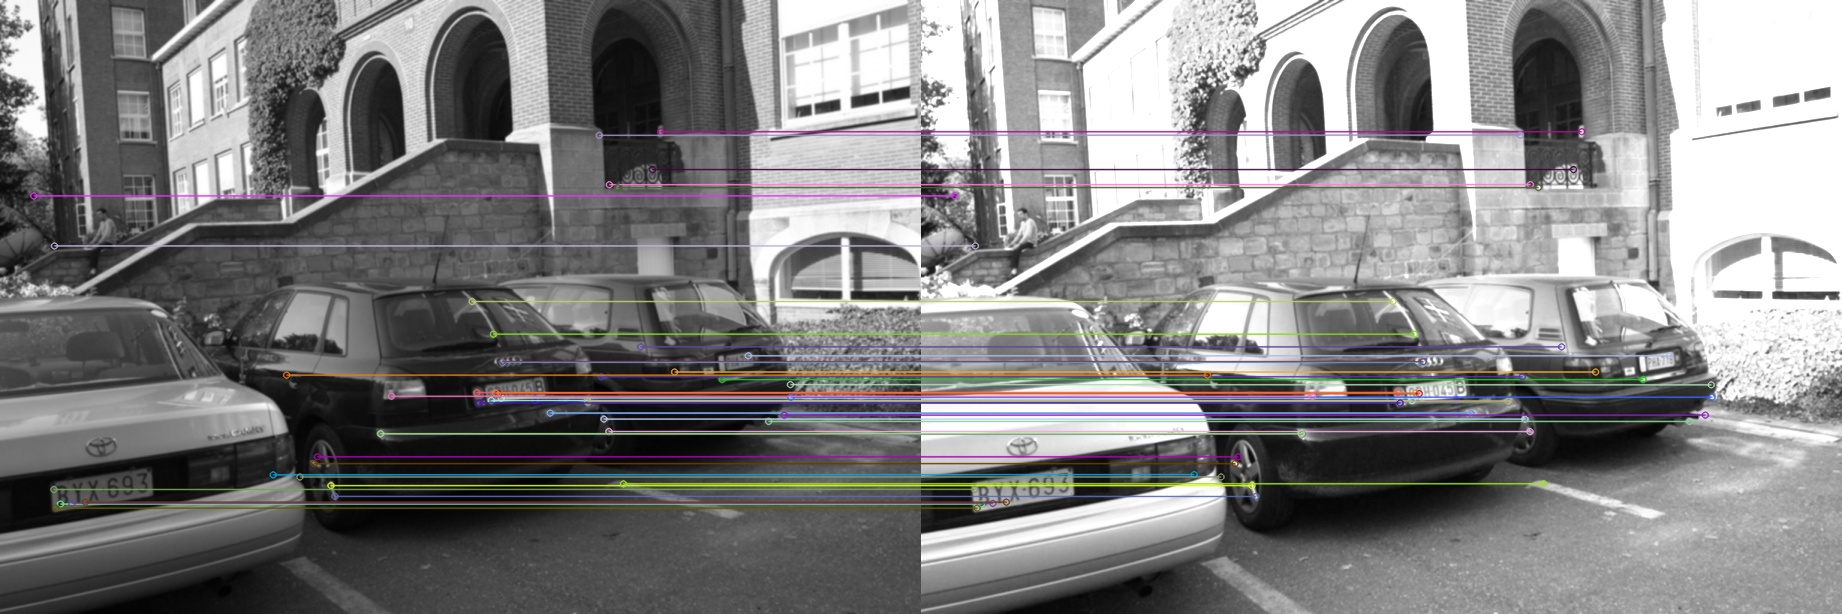
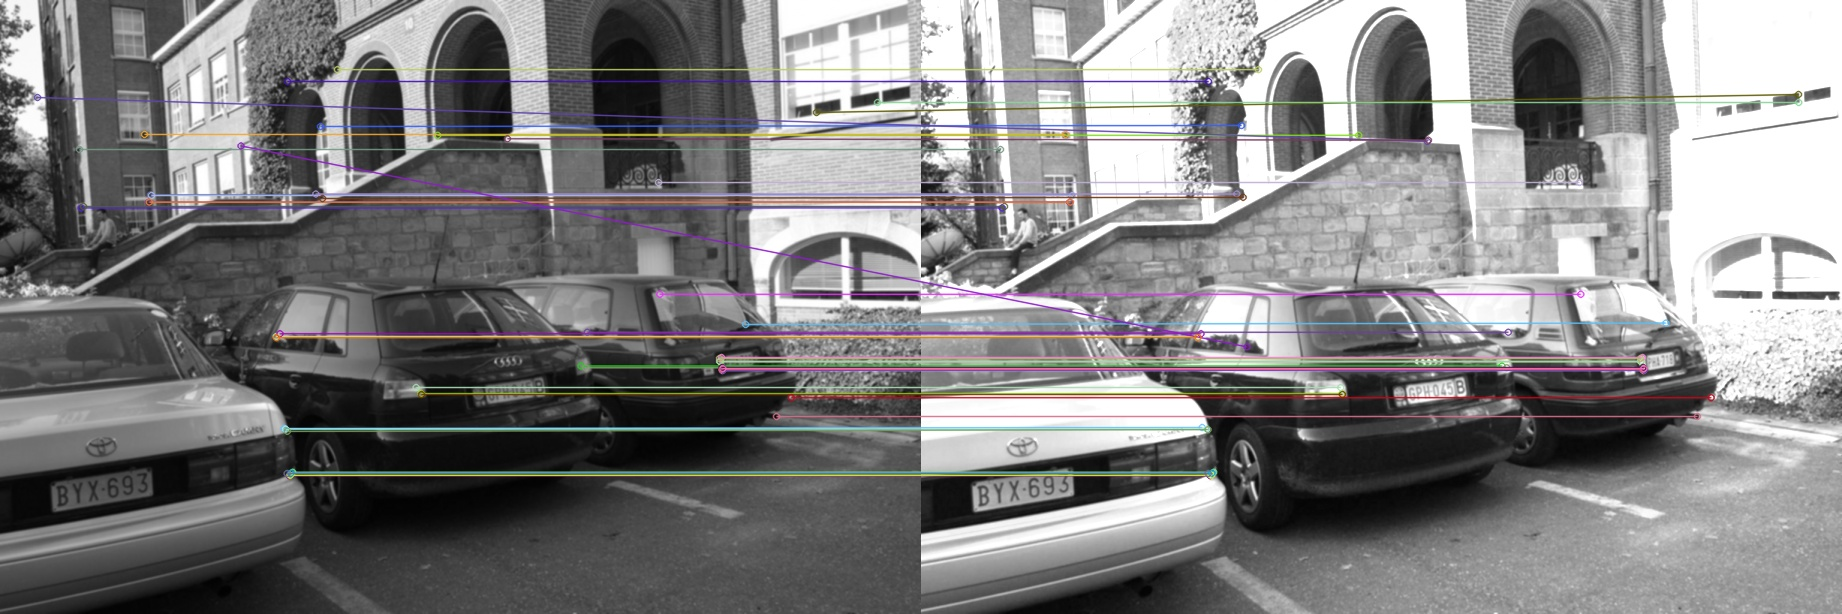
Add ORB

diff --git a/filters/object_detection/orb_two_imgs.py b/filters/object_detection/orb_two_imgs.py
@@ -1,0 +1,43 @@
+import cv2
+import matplotlib.pyplot as plt
+
+
+img1 = cv2.imread('/home/eugenia/ati/sift/autos0.png') # Esta es la que quiero detectar dentro de la img2
+img2 = cv2.imread('/home/eugenia/ati/sift/autos_iluminada.png')  
+ 
+img1 = cv2.cvtColor(img1, cv2.COLOR_BGR2GRAY)
+img2 = cv2.cvtColor(img2, cv2.COLOR_BGR2GRAY)
+
+# Create SIFT object
+orb = cv2.ORB_create()
+
+# Detect SIFT features in both images
+keypoints_1, descriptors_1 = orb.detectAndCompute(img1,None)
+keypoints_2, descriptors_2 = orb.detectAndCompute(img2,None)
+
+# Create feature matcher
+bf = cv2.BFMatcher(cv2.NORM_L1, crossCheck=True)
+
+# Match descriptors of both images
+matches = bf.match(descriptors_1,descriptors_2)
+
+# sort matches by distance
+matches = sorted(matches, key = lambda x:x.distance)
+
+# Draw first 50 matches
+matched_img = cv2.drawMatches(img1, keypoints_1, img2, keypoints_2, matches[:50], img2, flags=2)
+
+print(f"Keypoints in First Img: {len(keypoints_1)}")
+print(f"Keypoints in Second Img: {len(keypoints_2)}")
+print(f"Keypoints Matched: {len(matches)}")
+
+min_keypoints = min(len(keypoints_1), len(keypoints_2))
+matched_percentage = len(matches) /min_keypoints 
+if matched_percentage > 0.7: 
+    print(f"{matched_percentage} is acceptable ")
+else:
+    print(f"{matched_percentage} is not acceptable ")
+
+ 
+cv2.imwrite("akaze_matched_images.jpg", matched_img)
+ 
